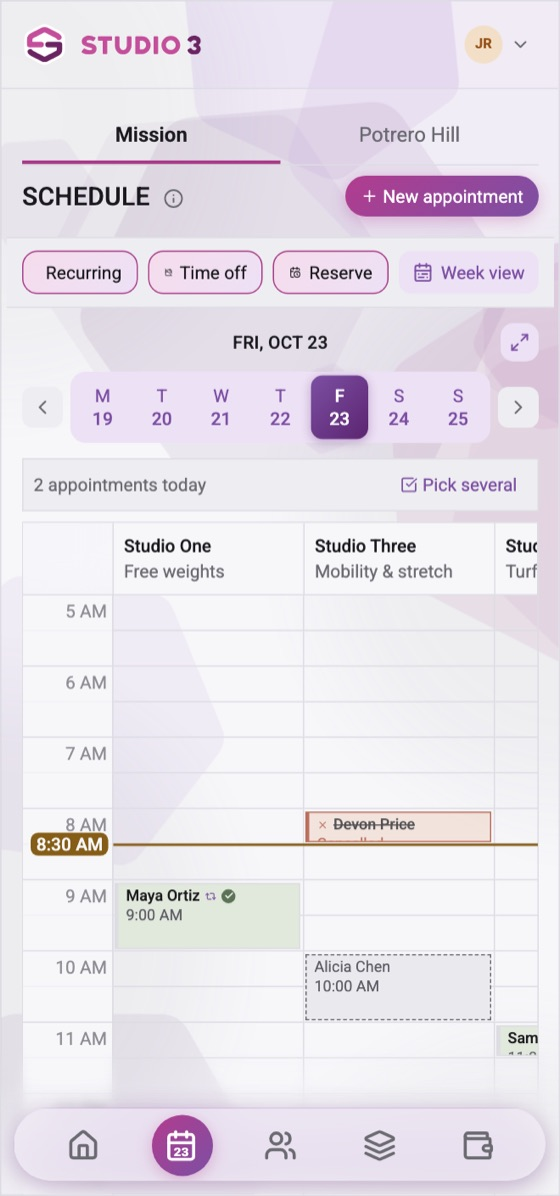
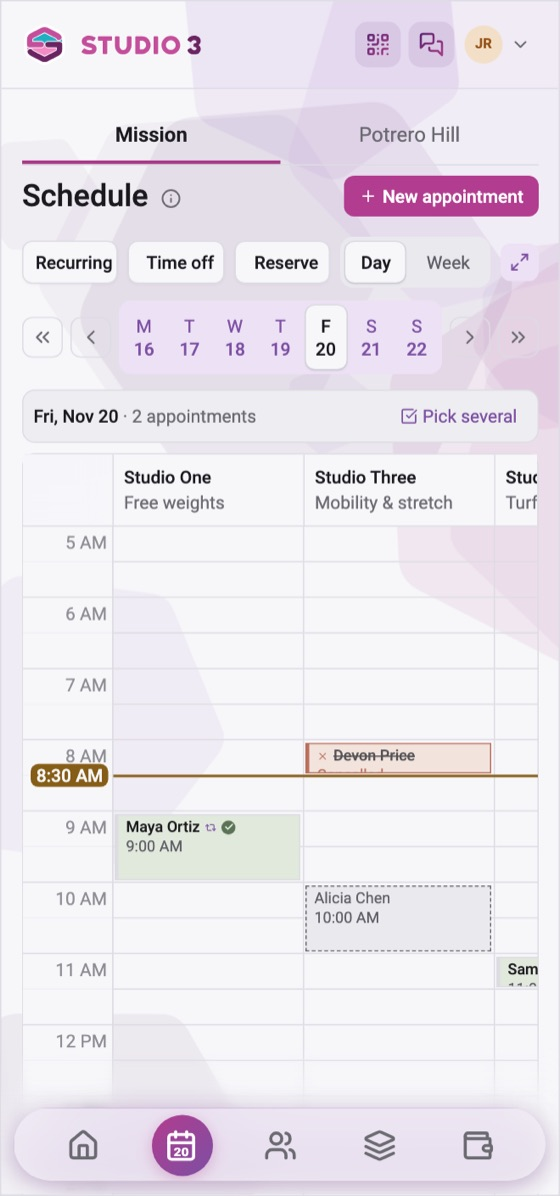
Studio page: current hero screenshots with the app's bottom bar, the sign-in page's typed headline

diff --git a/styles.css b/styles.css
@@ -623,7 +623,7 @@ address { font-style: normal; }
   transform-style: preserve-3d;
 }
 .app-phone {
-  flex: none; width: clamp(170px, 20vw, 270px); aspect-ratio: 560 / 1100; overflow: hidden;
+  flex: none; width: clamp(170px, 20vw, 270px); aspect-ratio: 560 / 1196; overflow: hidden; /* the screenshots' own shape, so the app's bottom bar shows */
   border-radius: clamp(22px, 2.6vw, 34px); border: clamp(5px, 0.6vw, 8px) solid #1c1b26;
   background: #1c1b26;
   box-shadow: 0 30px 60px rgb(0 0 0 / 0.55), 0 0 0 1px rgb(255 255 255 / 0.06), 0 0 60px color-mix(in srgb, var(--magenta) 30%, transparent);
@@ -1070,3 +1070,24 @@ address { font-style: normal; }
 .role-tabs { margin-bottom: 14px; }
 .role-hint { margin: 0; }
 .role-track { margin-top: 56px; }
+
+/* Studio page hero: the headline typed, as on Studio's sign-in page (Studio's TypedLine.jsx).
+   "Your " stays; the rest is typed, held, taken back a letter at a time, and the next typed.
+   The last line pours into magenta from the top down, the line under it after it, then drains back. */
+.typed-h1 { font-size: min(clamp(3rem, 8vw, 5.75rem), 10.5vw); margin: clamp(48px, 7vw, 88px) 0 clamp(56px, 8vw, 100px); }
+.typed-h1 > span { display: block; }
+.typed-line { display: block; white-space: nowrap; }
+.typed-under { display: block; }
+.typed-caret { display: none; width: 0.06em; height: 0.82em; margin-left: 0.05em; vertical-align: -0.04em; background: currentColor; animation: typed-caret 1s steps(1) infinite; transition: background 0.2s; }
+.typed-on .typed-caret { display: inline-block; }
+@keyframes typed-caret { 50% { opacity: 0; } }
+.typed-wet { background: linear-gradient(to bottom, var(--typed-wet) 0 42%, var(--text) 58% 100%); background-size: 100% 240%;
+  -webkit-background-clip: text; background-clip: text; color: transparent; -webkit-text-fill-color: transparent;
+  animation: typed-pour 0.5s linear var(--typed-at, 0s) both; }
+.typed-text { --typed-wet: var(--magenta-bright); --typed-back: 0.5s; }
+.typed-under { --typed-wet: var(--cerulean-bright); --typed-at: 0.5s; --typed-back: 0s; }
+.typed-wet.typed-drain { animation: typed-drain 0.5s linear var(--typed-back) both; }
+.typed-wet + .typed-caret { background: var(--magenta-bright); transition: background 0.2s 0.35s; }
+.typed-wet.typed-drain + .typed-caret { background: currentColor; transition: background 0.2s 0.8s; }
+@keyframes typed-pour { from { background-position: 0 100%; } to { background-position: 0 0; } }
+@keyframes typed-drain { from { background-position: 0 0; } to { background-position: 0 100%; } }

diff --git a/main.js b/main.js
@@ -1075,3 +1075,35 @@ document.querySelectorAll('[data-fill]').forEach(bar => {
   if (start) requestAnimationFrame(() => track.scrollTo({ left: panels[start].offsetLeft - panels[0].offsetLeft }));
   root.classList.add('ready');
 })();
+
+// Studio page hero: the headline typed, the way Studio's sign-in page types it
+// (Studio's src/auth/TypedLine.jsx: same lines, order and timings). Without the
+// script, or with motion reduced, "Your training." simply stands.
+(() => {
+  const line = document.querySelector('.typed-line[data-typed]');
+  if (!line || matchMedia('(prefers-reduced-motion: reduce)').matches) return;
+  const h1 = line.closest('h1');
+  const text = line.querySelector('.typed-text');
+  const under = h1.querySelector('.typed-under');
+  const lines = line.dataset.typed.split('|');
+  const TYPE = 75, UNTYPE = 60, HOLD = 1300, LAST_HOLD = 4500, START = 400, FLOOD_AFTER = 600, POUR = 1000;
+  const keep = 'Your '.length;
+  const wet = (on, drain) => [text, under].forEach((el) => { el.classList.toggle('typed-wet', on); el.classList.toggle('typed-drain', !!drain); });
+  h1.classList.add('typed-on');
+  let i = 0, n = keep, backing = false;
+  text.textContent = lines[0].slice(0, keep);
+  const step = () => {
+    const t = lines[i];
+    if (!backing) {
+      if (n < t.length) { text.textContent = t.slice(0, ++n); return setTimeout(step, TYPE); }
+      backing = true;
+      if (i !== lines.length - 1) return setTimeout(step, HOLD);
+      setTimeout(() => wet(true), FLOOD_AFTER);
+      return setTimeout(() => { wet(true, true); setTimeout(() => { wet(false); step(); }, POUR + 150); }, LAST_HOLD);
+    }
+    if (n > keep) { text.textContent = t.slice(0, --n); return setTimeout(step, UNTYPE); }
+    backing = false; i = (i + 1) % lines.length;
+    setTimeout(step, TYPE * 3);
+  };
+  setTimeout(step, START);
+})();

diff --git a/src/pages/studio.html b/src/pages/studio.html
@@ -8,14 +8,13 @@ description: Trainability Studio is the member portal for members and clients of
         <div class="app-phones">
           <div class="app-phone app-phone-1"><img src="{{root}}assets/apps/studio-schedule.jpg" alt="" width="560" height="1196"></div>
           <div class="app-phone app-phone-2"><img src="{{root}}assets/apps/studio-login.jpg" alt="" width="560" height="1196"></div>
-          <div class="app-phone app-phone-3"><img src="{{root}}assets/apps/studio-momentum.jpg" alt="" width="560" height="1196"></div>
+          <div class="app-phone app-phone-3"><img src="{{root}}assets/apps/studio-clients.jpg" alt="" width="560" height="1196"></div>
         </div>
       </div>
       <div class="container">
         <img class="app-logo" src="{{root}}assets/logos/studio-lockup.svg" alt="Trainability Studio" width="908" height="228">
         <p class="eyebrow gradient-text">For members, clients and trainers at Trainability</p>
-        <h1>Your training, booked and kept on track.</h1>
-        <p class="lead">See what you have booked, reserve a studio, and watch your visits add up.</p>
+        <h1 class="typed-h1" aria-label="Your training. All in one place."><span aria-hidden="true"><span class="typed-line" data-typed="Your training.|Your schedule.|Your clients.|Your members.|Your studio’s day."><span class="typed-text">Your training.</span><span class="typed-caret"></span></span><span class="typed-under">All in one place.</span></span></h1>
         <div class="hero-actions">
           <a href="{{studio}}" class="btn">Open Studio</a>
           <a href="{{studio}}/install" class="btn btn-ghost">Put it on your phone</a>

diff --git a/CHANGELOG.md b/CHANGELOG.md
@@ -320,3 +320,14 @@ build are in the footer of every page, e.g. "3.0.1 · Ianthine".
 - **Studio page: four more demo videos.** For clients, buying more sessions by
   replying BUY to a text. For trainers, taking time off in one go, getting
   paid by clients, and ringing up a sale at the desk's Store.
+
+- **Studio page hero screenshots.** The three phones behind the Studio
+  page's title show the app as it is now: the sign-in page, the Schedule and
+  Clients, from Studio's manual (21 Nov 2026). Clients takes the place of the
+  old Momentum screen.
+
+- **Studio page headline, typed.** The headline is now Studio's sign-in
+  page's: "Your training." typed, then "Your schedule.", "Your clients.",
+  "Your members." and "Your studio’s day.", over "All in one place.", with the
+  same timings and the colour pouring down over both lines on the last one.
+  With motion reduced, "Your training. All in one place." simply stands.
